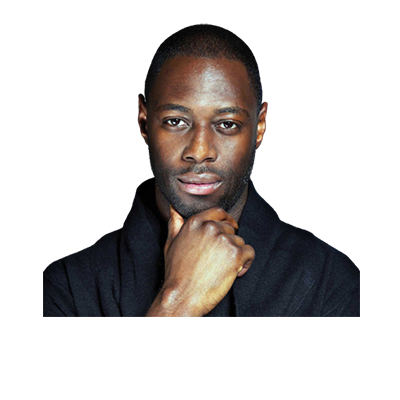
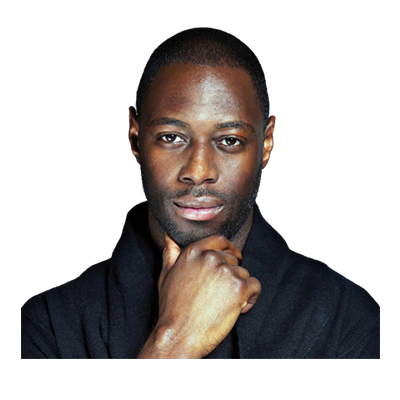
dev

Changed region(s): [[0.03, 0.06, 0.96, 0.9], [0.6, 0.09, 0.63, 0.12], [0.39, 0.09, 0.42, 0.12]]

diff --git a/the-club.html b/the-club.html
@@ -128,7 +128,7 @@
           <div id="banner-cards" class="club-item__content">
 
             <div class="banner-card">
-              <div class="banner-card__img" style="background: url(res/img/harry-render.png) no-repeat">
+              <div class="banner-card__img" style="background: url(res/img/harry-render.png) no-repeat; background-size: cover">
               </div>
 
               <div class="banner-card__text">
@@ -141,7 +141,7 @@
             </div>
 
             <div class="banner-card">
-              <div class="banner-card__img" style="background: url(res/img/son-render.png) no-repeat">
+              <div class="banner-card__img" style="background: url(res/img/son-render.png) no-repeat; background-size: cover">
               </div>
 
               <div class="banner-card__text">
@@ -154,7 +154,7 @@
             </div>
 
             <div class="banner-card">
-              <div class="banner-card__img" style="background: url(res/img/poch-render.png) no-repeat">
+              <div class="banner-card__img" style="background: url(res/img/poch-render.png) no-repeat; background-size: cover">
               </div>
 
               <div class="banner-card__text">
@@ -167,7 +167,7 @@
             </div>
 
             <div class="banner-card">
-              <div class="banner-card__img" style="background: url(res/img/king-render.png) no-repeat">
+              <div class="banner-card__img" style="background: url(res/img/king-render.png) no-repeat; background-size: cover">
               </div>
 
               <div class="banner-card__text">
@@ -180,7 +180,7 @@
             </div>
 
             <div class="banner-card">
-              <div class="banner-card__img" style="background: url(res/img/rafa-render.png) no-repeat">
+              <div class="banner-card__img" style="background: url(res/img/rafa-render.png) no-repeat; background-size: cover">
               </div>
 
               <div class="banner-card__text">
@@ -193,7 +193,7 @@
             </div>
 
             <div class="banner-card">
-              <div class="banner-card__img" style="background: url(res/img/keane-render.png) no-repeat">
+              <div class="banner-card__img" style="background: url(res/img/keane-render.png) no-repeat; background-size: cover">
               </div>
 
               <div class="banner-card__text">

diff --git a/css/style.scss b/css/style.scss
@@ -308,6 +308,10 @@ body {
 @media screen and (max-width: 1020px){
   #banner-cards{
     grid-template-columns: 1fr !important;
+
+    .banner-card__img{
+     
+    }
   }
 }
 
